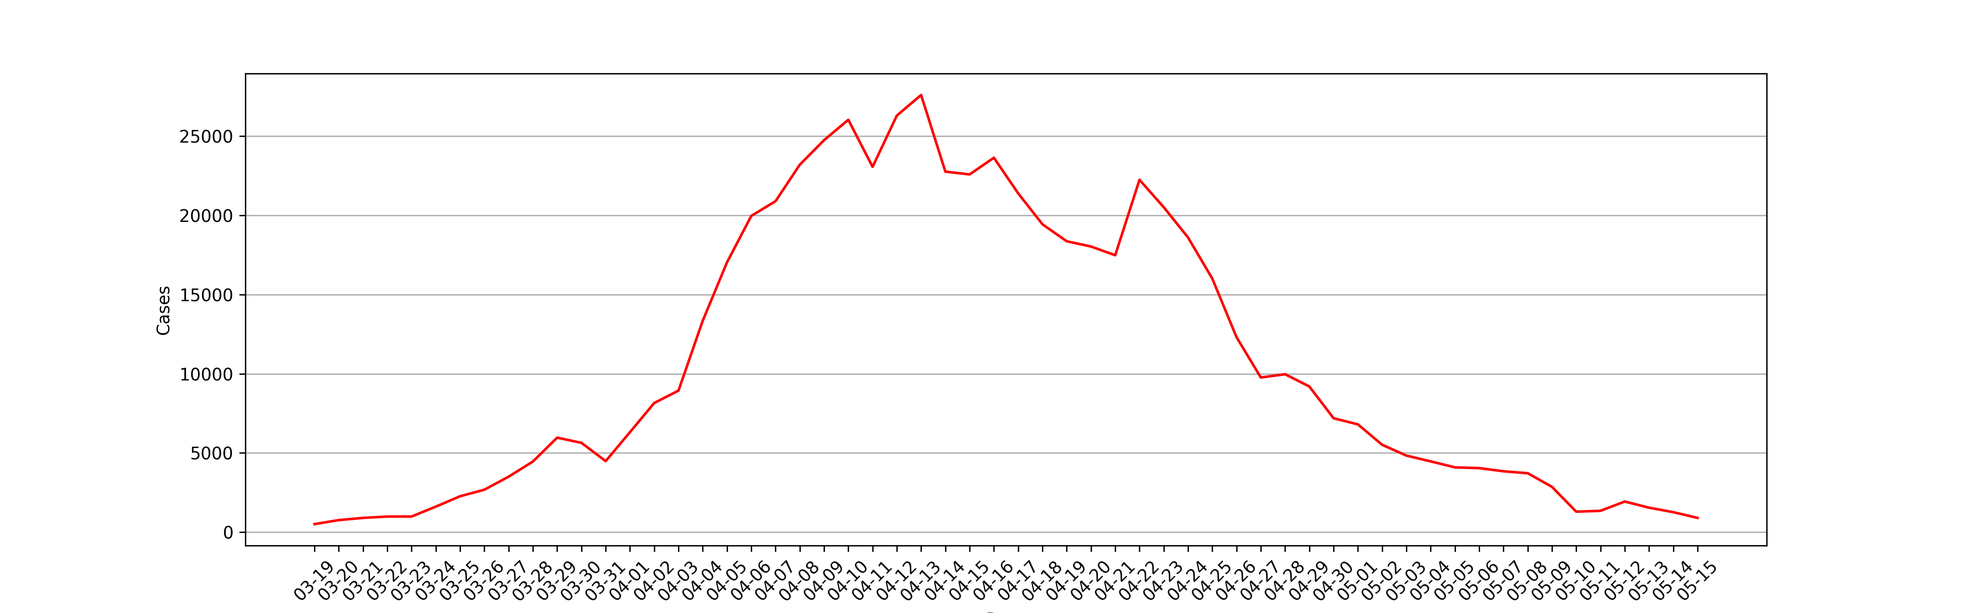
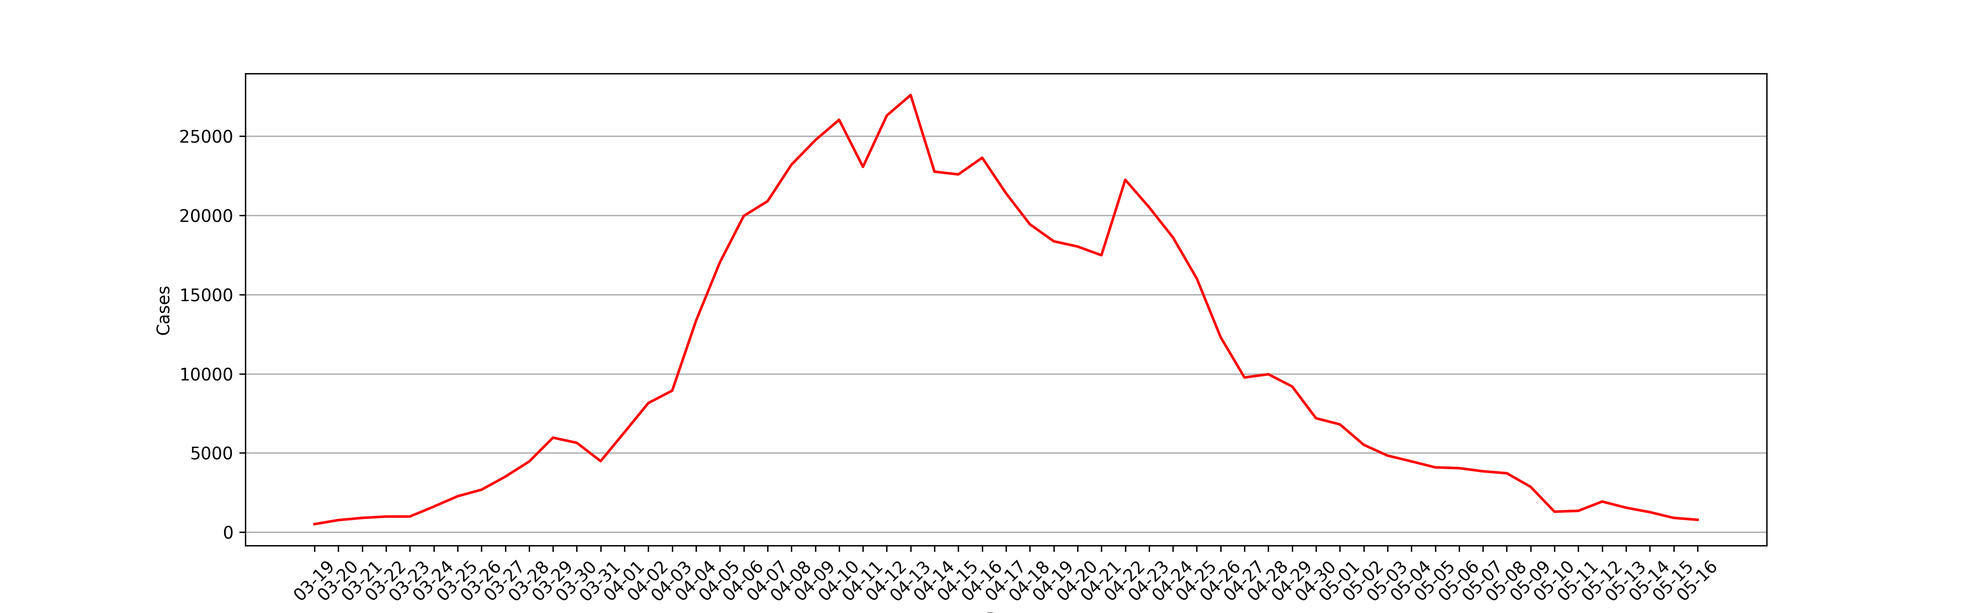
Commit by bot @ 05/17/22 10:15:01

diff --git a/archived_html/f443cdcf97350bfee39cb46b3cc73a14.html b/archived_html/f443cdcf97350bfee39cb46b3cc73a14.html
@@ -1,0 +1,151 @@
+<!DOCTYPE html>
+<html lang="zh-Hans">
+<head>
+    <meta charset="utf-8">
+    <meta http-equiv="Content-Security-Policy" content="upgrade-insecure-requests">
+    <meta name="viewport" content="width=device-width, initial-scale=1, maximum-scale=1, user-scalable=no">
+    <meta http-equiv="X-UA-Compatible" content="IE=Edge,chrome=1">
+    <meta http-equiv="Cache-Control" content="no-siteapp" />
+    <meta name="renderer" content="webkit">
+    <meta name="apple-mobile-web-app-capable" content="yes" />
+    <meta name="apple-mobile-web-app-status-bar-style" content="black" />
+    <title>上海2022年5月16日，新增本土新冠肺炎确诊病例77例 新增本土无症状感染者746例 无新增境外输入性新冠肺炎确诊病例 新增境外输入性无症状感染者2例__上海市卫生健康委员会</title>
+    <meta name="ColumnDescription" content="新闻发布"><!-- * -->
+    <meta name="ColumnKeywords" content="新闻发布"><!-- * -->
+    <!--<meta name="ColumnType" content=""> * -->
+    <meta name="ColumnName" content="新闻发布"><!-- * -->
+    <meta name="ArticleTitle" content="上海2022年5月16日，新增本土新冠肺炎确诊病例77例 新增本土无症状感染者746例 无新增境外输入性新冠肺炎确诊病例 新增境外输入性无症状感染者2例"><!-- * -->
+    <meta name="PubDate" content="2022-05-17"><!-- * -->
+    <meta name="ContentSource" content="上海市卫生健康委员会"><!-- * -->
+    <meta name="Author" content="上海市卫生健康委员会">
+    <meta name="Description" content="" />
+    <meta name="applicable-device" content="pc;mobile">
+    <meta name="location" content="北纬N31°11′51.89″ 东经E121°30′5.42″">
+    <!-- min CSS -->
+    <link rel="stylesheet" href="/assets/css/ETUI/ETUI3.min.css">
+    <!-- Custom CSS -->
+    <link rel="stylesheet" href="/assets/plugin/owl/owl.carousel.css">
+    <link rel="stylesheet" href="/assets/css/style.css">
+    <link rel="stylesheet" href="/assets/css/responsive.css">
+    <link rel="stylesheet" href="/assets/css/ETUI/ETUI3.Utility.css">
+    <!-- icons -->
+    <link rel="shortcut icon" href="/assets/img/ico/favicon.png">
+    <!-- 无障碍工具条 -->
+   <!-- <link rel="stylesheet" href="http://www.shanghai.gov.cn/jhelper_V2.0/jhelper_tool_style.css">
+    <script src="http://www.shanghai.gov.cn/jhelper_V2.0/wsj/jhelper_config.js" charset="gb2312"></script>
+    <noscript>不能读取工具条配置</noscript>
+    <script src="http://www.shanghai.gov.cn/jhelper_V2.0/jhelper_2.0.js" charset="gb2312"></script>
+    <noscript>不能读取工具条</noscript> 
+     -->
+    <script type="text/javascript">
+        function onsubmmit(pageIndex){
+            $("#pageIndex").val(1);
+            $("#searchField").val("0");
+            $("#timeScope").val("0");
+            $("#cmsSearchId").val("0");
+            $("#searchForm").submit();
+        }
+        function onselsubmmit(){
+            $("#pageIndex").val(1);
+            $("#searchForm").submit();
+        }
+        function psubmmit(pageIndex){
+            $("#pageIndex").val(pageIndex);
+            $("#searchForm").submit();
+        }
+        // 栏目
+        function chsubmmit(searchChId){
+            $("#pageIndex").val(1);
+            $("#searchField").val("0");
+            $("#timeScope").val("0");
+            $("#cmsSearchId").val(searchChId);
+            $("#searchForm").submit();
+        }
+    </script> 
+    <!-- 无障碍工具条 -->
+</head>
+<body>
+    <div id="accessNull"></div>
+    <div id="container">
+        <div class="channelinfo hidden"></div>
+        <script src="/assets/js/header.js"></script>
+        <div class="main" id="main">
+            <script src="/assets/js/jiansuo.js"></script>
+            <div class="main-container margin-top-15">
+                <div class="container ">
+                    <div class="relitive">
+                        <ol class="breadcrumb">
+                           <span>您现在所在的位置：</span>
+                            <li><a href="/index.html">首页</a></li>
+                            <li class="active">新闻中心</li>
+                           
+                            <li class="active">新闻发布</li>
+                           
+                        </ol>
+                        <div class="date-se">
+                            <i class="iconfont">&#xe60b;</i> <span id="time"></span>
+                        </div>
+                    </div>
+
+                    <div class="Article">
+                        <h2 id="ivs_title" class="Article-title">上海2022年5月16日，新增本土新冠肺炎确诊病例77例 新增本土无症状感染者746例 无新增境外输入性新冠肺炎确诊病例 新增境外输入性无症状感染者2例</br>
+                         <h2 class="Article-title">
+                            <small id="ivs_date" class="Article-time">( 2022-05-17)</small>
+                        </h2>
+                        <div id="ivs_player" style="text-align:center;"></div>
+                        <div id="ivs_content" class="Article_content">
+                           
+                                 <p style="font-size: medium;white-space: normal;margin-top: 10px;text-indent: 40px"><span style="font-size: 20px;font-family: 仿宋_GB2312">市卫健委今早（17日）通报：2022年5月16日0—24时，新增本土新冠肺炎确诊病例77例和无症状感染者746例，其中46例确诊病例为既往无症状感染者转归，31例确诊病例和746例无症状感染者在隔离管控中发现。新增境外输入性无症状感染者2例，均在闭环管控中发现。</span></p><p style="font-size: medium;white-space: normal;margin-top: 10px;text-indent: 40px"><span style="font-size: 20px;font-family: 仿宋_GB2312">2022</span><span style="font-size: 20px;font-family: 仿宋_GB2312">年5月16日0—24时，新增本土新冠肺炎确诊病例77例，含46例由既往无症状感染者转为确诊病例。新增治愈出院315例。</span></p><p style="font-size: medium;white-space: normal;margin-top: 10px;text-indent: 40px"><strong><span style="font-size: 20px;font-family: 黑体">病例1、病例2</span></strong><span style="font-size: 20px;font-family: 仿宋_GB2312">，居住于浦东新区，</span><strong><span style="font-size: 20px;font-family: 黑体">病例3</span></strong><span style="font-size: 20px;font-family: 仿宋_GB2312">，居住于黄浦区，</span><strong><span style="font-size: 20px;font-family: 黑体">病例4—病例8</span></strong><span style="font-size: 20px;font-family: 仿宋_GB2312">，居住于静安区，</span><strong><span style="font-size: 20px;font-family: 黑体">病例9、病例10</span></strong><span style="font-size: 20px;font-family: 仿宋_GB2312">，居住于虹口区，</span><strong><span style="font-size: 20px;font-family: 黑体">病例11—病例23</span></strong><span style="font-size: 20px;font-family: 仿宋_GB2312">，居住于杨浦区，</span><strong><span style="font-size: 20px;font-family: 黑体">病例24</span></strong><span style="font-size: 20px;font-family: 仿宋_GB2312">，居住于闵行区，</span><strong><span style="font-size: 20px;font-family: 黑体">病例25—病例29</span></strong><span style="font-size: 20px;font-family: 仿宋_GB2312">，居住于宝山区，</span><strong><span style="font-size: 20px;font-family: 黑体">病例30</span></strong><span style="font-size: 20px;font-family: 仿宋_GB2312">，居住于松江区，</span><strong><span style="font-size: 20px;font-family: 黑体">病例31</span></strong><span style="font-size: 20px;font-family: 仿宋_GB2312">，居住于青浦区，均为本市闭环隔离管控人员，其间新冠病毒核酸检测结果异常，经疾控中心复核结果为阳性。经市级专家会诊，综合流行病学史、临床症状、实验室检测和影像学检查结果等，诊断为确诊病例。</span></p><p style="font-size: medium;white-space: normal;margin-top: 10px;text-indent: 40px"><strong><span style="font-size: 20px;font-family: 黑体">病例32</span></strong><span style="font-size: 20px;font-family: 仿宋_GB2312">，居住于浦东新区，</span><strong><span style="font-size: 20px;font-family: 黑体">病例33—病例41</span></strong><span style="font-size: 20px;font-family: 仿宋_GB2312">，居住于黄浦区，</span><strong><span style="font-size: 20px;font-family: 黑体">病例42—病例50</span></strong><span style="font-size: 20px;font-family: 仿宋_GB2312">，居住于静安区，</span><strong><span style="font-size: 20px;font-family: 黑体">病例51、病例52</span></strong><span style="font-size: 20px;font-family: 仿宋_GB2312">，居住于普陀区，</span><strong><span style="font-size: 20px;font-family: 黑体">病例53—病例56</span></strong><span style="font-size: 20px;font-family: 仿宋_GB2312">，居住于杨浦区，</span><strong><span style="font-size: 20px;font-family: 黑体">病例57—病例64</span></strong><span style="font-size: 20px;font-family: 仿宋_GB2312">，居住于闵行区，</span><strong><span style="font-size: 20px;font-family: 黑体">病例65、病例66</span></strong><span style="font-size: 20px;font-family: 仿宋_GB2312">，居住于宝山区，</span><strong><span style="font-size: 20px;font-family: 黑体">病例67—病例75</span></strong><span style="font-size: 20px;font-family: 仿宋_GB2312">，居住于嘉定区，</span><strong><span style="font-size: 20px;font-family: 黑体">病例76</span></strong><span style="font-size: 20px;font-family: 仿宋_GB2312">，居住于金山区，</span><strong><span style="font-size: 20px;font-family: 黑体">病例77</span></strong><span style="font-size: 20px;font-family: 仿宋_GB2312">，居住于松江区，为此前报告的本土无症状感染者。经市级专家会诊，综合流行病学史、临床症状、实验室检测和影像学检查结果等，诊断为确诊病例。</span></p><p style="font-size: medium;white-space: normal;margin-top: 10px;text-indent: 40px"><span style="font-size: 20px;font-family: 仿宋_GB2312">2022</span><span style="font-size: 20px;font-family: 仿宋_GB2312">年5月16日0—24时，新增本土死亡1例。患者为 92岁女性，合并有冠心病、心功能不全、血管性痴呆、肾功能不全等基础疾病，入院后因原发疾病加重并发心源性休克，经抢救无效死亡。死亡直接原因为基础疾病。</span></p><p style="font-size: medium;white-space: normal;margin-top: 10px;text-indent: 40px"><span style="font-size: 20px;font-family: 仿宋_GB2312">2022</span><span style="font-size: 20px;font-family: 仿宋_GB2312">年5月16日0—24时，新增本土无症状感染者746例。</span></p><p style="font-size: medium;white-space: normal;text-indent: 40px"><strong><span style="font-size: 20px;font-family: 黑体">无症状感染者1—无症状感染者86</span></strong><span style="font-size: 20px;font-family: 仿宋_GB2312">，居住于浦东新区，</span><strong><span style="font-size: 20px;font-family: 黑体">无症状感染者87—无症状感染者165</span></strong><span style="font-size: 20px;font-family: 仿宋_GB2312">，居住于黄浦区，</span><strong><span style="font-size: 20px;font-family: 黑体">无症状感染者166—无症状感染者217</span></strong><span style="font-size: 20px;font-family: 仿宋_GB2312">，居住于徐汇区，</span><strong><span style="font-size: 20px;font-family: 黑体">无症状感染者218—无症状感染者241</span></strong><span style="font-size: 20px;font-family: 仿宋_GB2312">，居住于长宁区，</span><strong><span style="font-size: 20px;font-family: 黑体">无症状感染者242—无症状感染者289，</span></strong><span style="font-size: 20px;font-family: 仿宋_GB2312">居住于静安区，</span><strong><span style="font-size: 20px;font-family: 黑体">无症状感染者290—无症状感染者297</span></strong><span style="font-size: 20px;font-family: 仿宋_GB2312">，居住于普陀区，</span><strong><span style="font-size: 20px;font-family: 黑体">无症状感染者298—无症状感染者344</span></strong><span style="font-size: 20px;font-family: 仿宋_GB2312">，居住于虹口区，</span><strong><span style="font-size: 20px;font-family: 黑体">无症状感染者345—无症状感染者584</span></strong><span style="font-size: 20px;font-family: 仿宋_GB2312">，居住于杨浦区，</span><strong><span style="font-size: 20px;font-family: 黑体">无症状感染者585—无症状感染者623</span></strong><span style="font-size: 20px;font-family: 仿宋_GB2312">，居住于闵行区，</span><strong><span style="font-size: 20px;font-family: 黑体">无症状感染者624—无症状感染者694</span></strong><span style="font-size: 20px;font-family: 仿宋_GB2312">，居住于宝山区，</span><strong><span style="font-size: 20px;font-family: 黑体">无症状感染者695—无症状感染者712</span></strong><span style="font-size: 20px;font-family: 仿宋_GB2312">，居住于嘉定区，</span><strong><span style="font-size: 20px;font-family: 黑体">无症状感染者713—无症状感染者717</span></strong><span style="font-size: 20px;font-family: 仿宋_GB2312">，居住于金山区，</span><strong><span style="font-size: 20px;font-family: 黑体">无症状感染者718—无症状感染者726</span></strong><span style="font-size: 20px;font-family: 仿宋_GB2312">，居住于松江区，</span><strong><span style="font-size: 20px;font-family: 黑体">无症状感染者727—无症状感染者745</span></strong><span style="font-size: 20px;font-family: 仿宋_GB2312">，居住于青浦区，</span><strong><span style="font-size: 20px;font-family: 黑体">无症状感染者746</span></strong><span style="font-size: 20px;font-family: 仿宋_GB2312">，居住于奉贤区，</span><span style="font-size: 20px;font-family: 仿宋_GB2312">均为本市闭环隔离管控人员，其间新冠病毒核酸检测结果</span><span style="font-size: 20px;font-family: 仿宋_GB2312">异常，经疾控中心复核结果为阳性，诊断为无症状感染者。</span></p><p style="font-size: medium;white-space: normal;text-indent: 40px"><span style="font-size: 20px;font-family: 仿宋_GB2312">2022</span><span style="font-size: 20px;font-family: 仿宋_GB2312">年5月16日0—24时，无</span><span style="font-size: 20px;font-family: 仿宋_GB2312">新增境外输入性新冠肺炎确诊病例</span><span style="font-size: 20px;font-family: 仿宋_GB2312">。</span></p><p style="font-size: medium;white-space: normal;text-indent: 40px"><span style="font-size: 20px;font-family: 仿宋_GB2312">2022</span><span style="font-size: 20px;font-family: 仿宋_GB2312">年5月16日0—24时，新增境外输入性无症状感染者2例。</span></p><p style="font-size: medium;white-space: normal;text-indent: 40px"><strong><span style="font-size: 20px;font-family: 黑体">无症状感染者1</span></strong><span style="font-size: 20px;font-family: 仿宋_GB2312">为中国籍，在美国留学，自美国出发，于2022年5月8日抵达上海浦东国际机场，入关后即被集中隔离观察，其间例行核酸检测异常。经排查，区疾控中心新冠病毒核酸检测结果为阳性。综合流行病学史、临床症状、实验室检测和影像学检查结果等，诊断为无症状感染者。</span></p><p style="font-size: medium;white-space: normal;text-indent: 40px"><strong><span style="font-size: 20px;font-family: 黑体">无症状感染者2</span></strong><span style="font-size: 20px;font-family: 仿宋_GB2312">为中国籍，在加拿大留学，自加拿大出发，于2022年5月14日抵达上海浦东国际机场，入关后即被集中隔离观察，其间例行核酸检测异常。经排查，区疾控中心新冠病毒核酸检测结果为阳性。综合流行病学史、临床症状、实验室检测和影像学检查结果等，诊断为无症状感染者。</span></p><p style="font-size: medium;white-space: normal;text-indent: 40px"><span style="font-size: 20px;font-family: 仿宋_GB2312">2</span><span style="font-size: 20px;font-family: 仿宋_GB2312">例境外输入性无症状感染者已转至定点医疗机构医学观察，已追踪同航班密切接触者17人，均已落实集中隔离观察。</span></p><p style="font-size: medium;white-space: normal;text-indent: 40px"><span style="font-size: 20px;font-family: 仿宋_GB2312">2022</span><span style="font-size: 20px;font-family: 仿宋_GB2312">年5月16日0—24时，解除医学观察无症状感染者2874例，其中本土无症状感染者2872例，境外输入性无症状感染者2例。</span></p><p style="font-size: medium;white-space: normal;margin-top: 10px;text-indent: 40px;vertical-align: baseline"><span style="font-size: 20px;font-family: 仿宋_GB2312">2022</span><span style="font-size: 20px;font-family: 仿宋_GB2312">年2月26日0时至2022年5月16日24时，累计本土确诊57260例，治愈出院52837例，在院治疗3847例（其中重型259例，危重型64例），死亡576。现有待排查的疑似病例0例。</span></p><p style="font-size: medium;white-space: normal;margin-top: 10px;text-indent: 40px;vertical-align: baseline"><span style="font-size: 20px;font-family: 仿宋_GB2312">截至2022年5月16日24时，累计境外输入性确诊病例4599例，出院4590例，在院治疗9例。现有待排查的疑似病例0例。</span></p><p style="font-size: medium;white-space: normal;margin-top: 10px;text-indent: 40px;vertical-align: baseline"><span style="font-size: 20px;font-family: 仿宋_GB2312"><br/></span></p><table align="center" cellspacing="0" cellpadding="0" width="544"><tbody><tr style="height: 24px" class="firstRow"><td width="379" colspan="2" style="border-width: 1px; border-color: windowtext; padding: 0px 7px; border-style: solid;" height="24"><p style="text-align: center;vertical-align: baseline"><strong><span style="font-size: 19px;font-family: 仿宋_GB2312">区域</span></strong></p></td><td width="165" style="border-width: 1px; border-top-color: windowtext; border-right-color: windowtext; border-bottom-color: windowtext; border-style: solid; border-left-color: initial; padding: 0px 7px;" height="24"><p style="text-align: center;vertical-align: baseline"><strong><span style="font-size: 19px;font-family: 仿宋_GB2312">在院治疗确诊病例</span></strong></p></td></tr><tr style="height: 42px"><td width="213" rowspan="8" style="border-width: 1px; border-right-color: windowtext; border-bottom-color: windowtext; border-left-color: windowtext; border-style: solid; border-top-color: initial; padding: 0px 7px;" height="42"><p style="text-align: center;vertical-align: baseline"><span style="font-size: 19px;font-family: 仿宋_GB2312">境外输入人员</span></p><p style="text-align: center;vertical-align: baseline"><span style="font-size: 19px;font-family: 仿宋_GB2312">（按输入地分）</span></p></td><td width="165" valign="top" style="border-width: 1px; border-style: solid; border-top-color: initial; border-left-color: initial; border-bottom-color: windowtext; border-right-color: windowtext; padding: 0px 7px;" height="42"><p style="text-align: center;vertical-align: middle"><span style="font-size: 19px;font-family: 仿宋_GB2312">美国</span></p></td><td width="165" valign="top" style="border-width: 1px; border-style: solid; border-top-color: initial; border-left-color: initial; border-bottom-color: windowtext; border-right-color: windowtext; padding: 0px 7px;" height="42"><p style="text-align: center;vertical-align: middle"><span style="font-size: 19px;font-family: 仿宋_GB2312">2</span></p></td></tr><tr style="height: 42px"><td width="165" valign="top" style="border-width: 1px; border-style: solid; border-top-color: initial; border-left-color: initial; border-bottom-color: windowtext; border-right-color: windowtext; padding: 0px 7px;" height="42"><p style="text-align: center;vertical-align: middle"><span style="font-size: 19px;font-family: 仿宋_GB2312">加拿大</span></p></td><td width="165" valign="top" style="border-width: 1px; border-style: solid; border-top-color: initial; border-left-color: initial; border-bottom-color: windowtext; border-right-color: windowtext; padding: 0px 7px;" height="42"><p style="text-align: center;vertical-align: middle"><span style="font-size: 19px;font-family: 仿宋_GB2312">1</span></p></td></tr><tr style="height: 42px"><td width="165" valign="top" style="border-width: 1px; border-style: solid; border-top-color: initial; border-left-color: initial; border-bottom-color: windowtext; border-right-color: windowtext; padding: 0px 7px;" height="42"><p style="text-align: center;vertical-align: middle"><span style="font-size: 19px;font-family: 仿宋_GB2312">英国</span></p></td><td width="165" valign="top" style="border-width: 1px; border-style: solid; border-top-color: initial; border-left-color: initial; border-bottom-color: windowtext; border-right-color: windowtext; padding: 0px 7px;" height="42"><p style="text-align: center;vertical-align: middle"><span style="font-size: 19px;font-family: 仿宋_GB2312">1</span></p></td></tr><tr style="height: 33px"><td width="165" valign="top" style="border-width: 1px; border-style: solid; border-top-color: initial; border-left-color: initial; border-bottom-color: windowtext; border-right-color: windowtext; padding: 0px 7px;" height="33"><p style="text-align: center;vertical-align: middle"><span style="font-size: 19px;font-family: 仿宋_GB2312">科特迪瓦</span></p></td><td width="165" valign="top" style="border-width: 1px; border-style: solid; border-top-color: initial; border-left-color: initial; border-bottom-color: windowtext; border-right-color: windowtext; padding: 0px 7px;" height="33"><p style="text-align: center;vertical-align: middle"><span style="font-size: 19px;font-family: 仿宋_GB2312">1</span></p></td></tr><tr style="height: 33px"><td width="165" valign="top" style="border-width: 1px; border-style: solid; border-top-color: initial; border-left-color: initial; border-bottom-color: windowtext; border-right-color: windowtext; padding: 0px 7px;" height="33"><p style="text-align: center;vertical-align: middle"><span style="font-size: 19px;font-family: 仿宋_GB2312">日本</span></p></td><td width="165" valign="top" style="border-width: 1px; border-style: solid; border-top-color: initial; border-left-color: initial; border-bottom-color: windowtext; border-right-color: windowtext; padding: 0px 7px;" height="33"><p style="text-align: center;vertical-align: middle"><span style="font-size: 19px;font-family: 仿宋_GB2312">1</span></p></td></tr><tr style="height: 33px"><td width="165" valign="top" style="border-width: 1px; border-style: solid; border-top-color: initial; border-left-color: initial; border-bottom-color: windowtext; border-right-color: windowtext; padding: 0px 7px;" height="33"><p style="text-align: center;vertical-align: middle"><span style="font-size: 19px;font-family: 仿宋_GB2312">法国</span></p></td><td width="165" valign="top" style="border-width: 1px; border-style: solid; border-top-color: initial; border-left-color: initial; border-bottom-color: windowtext; border-right-color: windowtext; padding: 0px 7px;" height="33"><p style="text-align: center;vertical-align: middle"><span style="font-size: 19px;font-family: 仿宋_GB2312">1</span></p></td></tr><tr style="height: 33px"><td width="165" valign="top" style="border-width: 1px; border-style: solid; border-top-color: initial; border-left-color: initial; border-bottom-color: windowtext; border-right-color: windowtext; padding: 0px 7px;" height="33"><p style="text-align: center;vertical-align: middle"><span style="font-size: 19px;font-family: 仿宋_GB2312">德国</span></p></td><td width="165" valign="top" style="border-width: 1px; border-style: solid; border-top-color: initial; border-left-color: initial; border-bottom-color: windowtext; border-right-color: windowtext; padding: 0px 7px;" height="33"><p style="text-align: center;vertical-align: middle"><span style="font-size: 19px;font-family: 仿宋_GB2312">1</span></p></td></tr><tr style="height: 33px"><td width="165" valign="top" style="border-width: 1px; border-style: solid; border-top-color: initial; border-left-color: initial; border-bottom-color: windowtext; border-right-color: windowtext; padding: 0px 7px;" height="33"><p style="text-align: center;vertical-align: middle"><span style="font-size: 19px;font-family: 仿宋_GB2312">台湾地区</span></p></td><td width="165" valign="top" style="border-width: 1px; border-style: solid; border-top-color: initial; border-left-color: initial; border-bottom-color: windowtext; border-right-color: windowtext; padding: 0px 7px;" height="33"><p style="text-align: center;vertical-align: middle"><span style="font-size: 19px;font-family: 仿宋_GB2312">1</span></p></td></tr><tr style="height: 33px"><td width="213" rowspan="16" style="border-width: 1px; border-right-color: windowtext; border-bottom-color: windowtext; border-left-color: windowtext; border-style: solid; border-top-color: initial; padding: 0px 7px;" height="33"><p style="text-indent: 19px;vertical-align: baseline"><span style="font-size: 19px;font-family: 仿宋_GB2312">本市居住或工作地</span></p></td><td width="165" style="border-width: 1px; border-style: solid; border-top-color: initial; border-left-color: initial; border-bottom-color: windowtext; border-right-color: windowtext; padding: 0px 7px;" height="33"><p style="text-align: center;vertical-align: middle"><span style="font-size: 19px;font-family: 仿宋_GB2312">浦东</span></p></td><td width="165" style="border-width: 1px; border-style: solid; border-top-color: initial; border-left-color: initial; border-bottom-color: windowtext; border-right-color: windowtext; padding: 0px 7px;" height="33"><p style="text-align: center"><span style="font-size: 19px;font-family: 仿宋_GB2312">317</span></p></td></tr><tr style="height: 33px"><td width="165" style="border-width: 1px; border-style: solid; border-top-color: initial; border-left-color: initial; border-bottom-color: windowtext; border-right-color: windowtext; padding: 0px 7px;" height="33"><p style="text-align: center;vertical-align: middle"><span style="font-size: 19px;font-family: 仿宋_GB2312">黄浦</span></p></td><td width="165" style="border-width: 1px; border-style: solid; border-top-color: initial; border-left-color: initial; border-bottom-color: windowtext; border-right-color: windowtext; padding: 0px 7px;" height="33"><p style="text-align: center"><span style="font-size: 19px;font-family: 仿宋_GB2312">595</span></p></td></tr><tr style="height: 33px"><td width="165" style="border-width: 1px; border-style: solid; border-top-color: initial; border-left-color: initial; border-bottom-color: windowtext; border-right-color: windowtext; padding: 0px 7px;" height="33"><p style="text-align: center;vertical-align: middle"><span style="font-size: 19px;font-family: 仿宋_GB2312">徐汇</span></p></td><td width="165" style="border-width: 1px; border-style: solid; border-top-color: initial; border-left-color: initial; border-bottom-color: windowtext; border-right-color: windowtext; padding: 0px 7px;" height="33"><p style="text-align: center"><span style="font-size: 19px;font-family: 仿宋_GB2312">518</span></p></td></tr><tr style="height: 33px"><td width="165" style="border-width: 1px; border-style: solid; border-top-color: initial; border-left-color: initial; border-bottom-color: windowtext; border-right-color: windowtext; padding: 0px 7px;" height="33"><p style="text-align: center;vertical-align: middle"><span style="font-size: 19px;font-family: 仿宋_GB2312">长宁</span></p></td><td width="165" style="border-width: 1px; border-style: solid; border-top-color: initial; border-left-color: initial; border-bottom-color: windowtext; border-right-color: windowtext; padding: 0px 7px;" height="33"><p style="text-align: center"><span style="font-size: 19px;font-family: 仿宋_GB2312">272</span></p></td></tr><tr style="height: 33px"><td width="165" style="border-width: 1px; border-style: solid; border-top-color: initial; border-left-color: initial; border-bottom-color: windowtext; border-right-color: windowtext; padding: 0px 7px;" height="33"><p style="text-align: center;vertical-align: middle"><span style="font-size: 19px;font-family: 仿宋_GB2312">静安</span></p></td><td width="165" style="border-width: 1px; border-style: solid; border-top-color: initial; border-left-color: initial; border-bottom-color: windowtext; border-right-color: windowtext; padding: 0px 7px;" height="33"><p style="text-align: center"><span style="font-size: 19px;font-family: 仿宋_GB2312">573</span></p></td></tr><tr style="height: 33px"><td width="165" style="border-width: 1px; border-style: solid; border-top-color: initial; border-left-color: initial; border-bottom-color: windowtext; border-right-color: windowtext; padding: 0px 7px;" height="33"><p style="text-align: center;vertical-align: middle"><span style="font-size: 19px;font-family: 仿宋_GB2312">普陀</span></p></td><td width="165" style="border-width: 1px; border-style: solid; border-top-color: initial; border-left-color: initial; border-bottom-color: windowtext; border-right-color: windowtext; padding: 0px 7px;" height="33"><p style="text-align: center"><span style="font-size: 19px;font-family: 仿宋_GB2312">345</span></p></td></tr><tr style="height: 33px"><td width="165" style="border-width: 1px; border-style: solid; border-top-color: initial; border-left-color: initial; border-bottom-color: windowtext; border-right-color: windowtext; padding: 0px 7px;" height="33"><p style="text-align: center;vertical-align: middle"><span style="font-size: 19px;font-family: 仿宋_GB2312">虹口</span></p></td><td width="165" style="border-width: 1px; border-style: solid; border-top-color: initial; border-left-color: initial; border-bottom-color: windowtext; border-right-color: windowtext; padding: 0px 7px;" height="33"><p style="text-align: center"><span style="font-size: 19px;font-family: 仿宋_GB2312">402</span></p></td></tr><tr style="height: 33px"><td width="165" style="border-width: 1px; border-style: solid; border-top-color: initial; border-left-color: initial; border-bottom-color: windowtext; border-right-color: windowtext; padding: 0px 7px;" height="33"><p style="text-align: center;vertical-align: middle"><span style="font-size: 19px;font-family: 仿宋_GB2312">杨浦</span></p></td><td width="165" style="border-width: 1px; border-style: solid; border-top-color: initial; border-left-color: initial; border-bottom-color: windowtext; border-right-color: windowtext; padding: 0px 7px;" height="33"><p style="text-align: center"><span style="font-size: 19px;font-family: 仿宋_GB2312">473</span></p></td></tr><tr style="height: 33px"><td width="165" style="border-width: 1px; border-style: solid; border-top-color: initial; border-left-color: initial; border-bottom-color: windowtext; border-right-color: windowtext; padding: 0px 7px;" height="33"><p style="text-align: center;vertical-align: middle"><span style="font-size: 19px;font-family: 仿宋_GB2312">闵行</span></p></td><td width="165" style="border-width: 1px; border-style: solid; border-top-color: initial; border-left-color: initial; border-bottom-color: windowtext; border-right-color: windowtext; padding: 0px 7px;" height="33"><p style="text-align: center"><span style="font-size: 19px;font-family: 仿宋_GB2312">94</span></p></td></tr><tr style="height: 33px"><td width="165" style="border-width: 1px; border-style: solid; border-top-color: initial; border-left-color: initial; border-bottom-color: windowtext; border-right-color: windowtext; padding: 0px 7px;" height="33"><p style="text-align: center;vertical-align: middle"><span style="font-size: 19px;font-family: 仿宋_GB2312">宝山</span></p></td><td width="165" style="border-width: 1px; border-style: solid; border-top-color: initial; border-left-color: initial; border-bottom-color: windowtext; border-right-color: windowtext; padding: 0px 7px;" height="33"><p style="text-align: center"><span style="font-size: 19px;font-family: 仿宋_GB2312">73</span></p></td></tr><tr style="height: 33px"><td width="165" style="border-width: 1px; border-style: solid; border-top-color: initial; border-left-color: initial; border-bottom-color: windowtext; border-right-color: windowtext; padding: 0px 7px;" height="33"><p style="text-align: center;vertical-align: middle"><span style="font-size: 19px;font-family: 仿宋_GB2312">嘉定</span></p></td><td width="165" style="border-width: 1px; border-style: solid; border-top-color: initial; border-left-color: initial; border-bottom-color: windowtext; border-right-color: windowtext; padding: 0px 7px;" height="33"><p style="text-align: center"><span style="font-size: 19px;font-family: 仿宋_GB2312">51</span></p></td></tr><tr style="height: 33px"><td width="165" style="border-width: 1px; border-style: solid; border-top-color: initial; border-left-color: initial; border-bottom-color: windowtext; border-right-color: windowtext; padding: 0px 7px;" height="33"><p style="text-align: center;vertical-align: middle"><span style="font-size: 19px;font-family: 仿宋_GB2312">金山</span></p></td><td width="165" style="border-width: 1px; border-style: solid; border-top-color: initial; border-left-color: initial; border-bottom-color: windowtext; border-right-color: windowtext; padding: 0px 7px;" height="33"><p style="text-align: center"><span style="font-size: 19px;font-family: 仿宋_GB2312">3</span></p></td></tr><tr style="height: 33px"><td width="165" style="border-width: 1px; border-style: solid; border-top-color: initial; border-left-color: initial; border-bottom-color: windowtext; border-right-color: windowtext; padding: 0px 7px;" height="33"><p style="text-align: center;vertical-align: middle"><span style="font-size: 19px;font-family: 仿宋_GB2312">松江</span></p></td><td width="165" style="border-width: 1px; border-style: solid; border-top-color: initial; border-left-color: initial; border-bottom-color: windowtext; border-right-color: windowtext; padding: 0px 7px;" height="33"><p style="text-align: center"><span style="font-size: 19px;font-family: 仿宋_GB2312">7</span></p></td></tr><tr style="height: 33px"><td width="165" style="border-width: 1px; border-style: solid; border-top-color: initial; border-left-color: initial; border-bottom-color: windowtext; border-right-color: windowtext; padding: 0px 7px;" height="33"><p style="text-align: center;vertical-align: middle"><span style="font-size: 19px;font-family: 仿宋_GB2312">青浦</span></p></td><td width="165" style="border-width: 1px; border-style: solid; border-top-color: initial; border-left-color: initial; border-bottom-color: windowtext; border-right-color: windowtext; padding: 0px 7px;" height="33"><p style="text-align: center"><span style="font-size: 19px;font-family: 仿宋_GB2312">4</span></p></td></tr><tr style="height: 33px"><td width="165" style="border-width: 1px; border-style: solid; border-top-color: initial; border-left-color: initial; border-bottom-color: windowtext; border-right-color: windowtext; padding: 0px 7px;" height="33"><p style="text-align: center;vertical-align: middle"><span style="font-size: 19px;font-family: 仿宋_GB2312">奉贤</span></p></td><td width="165" style="border-width: 1px; border-style: solid; border-top-color: initial; border-left-color: initial; border-bottom-color: windowtext; border-right-color: windowtext; padding: 0px 7px;" height="33"><p style="text-align: center"><span style="font-size: 19px;font-family: 仿宋_GB2312">67</span></p></td></tr><tr style="height: 33px"><td width="165" style="border-width: 1px; border-style: solid; border-top-color: initial; border-left-color: initial; border-bottom-color: windowtext; border-right-color: windowtext; padding: 0px 7px;" height="33"><p style="text-align: center;vertical-align: middle"><span style="font-size: 19px;font-family: 仿宋_GB2312">崇明</span></p></td><td width="165" style="border-width: 1px; border-style: solid; border-top-color: initial; border-left-color: initial; border-bottom-color: windowtext; border-right-color: windowtext; padding: 0px 7px;" height="33"><p style="text-align: center"><span style="font-size: 19px;font-family: 仿宋_GB2312">53</span></p></td></tr><tr style="height: 33px"><td width="379" colspan="2" style="border-width: 1px; border-right-color: windowtext; border-bottom-color: windowtext; border-left-color: windowtext; border-style: solid; border-top-color: initial; padding: 0px 7px;" height="33"><p style="text-align: center;vertical-align: baseline"><span style="font-size: 19px;font-family: 仿宋_GB2312">合计</span></p></td><td width="165" style="border-width: 1px; border-style: solid; border-top-color: initial; border-left-color: initial; border-bottom-color: windowtext; border-right-color: windowtext; padding: 0px 7px;" height="33"><p style="text-align: center;vertical-align: baseline"><span style="font-size: 19px;font-family: 仿宋_GB2312">3856</span></p></td></tr></tbody></table><p style="font-size: medium;white-space: normal;margin-top: 10px;text-indent: 43px;vertical-align: baseline"><span style="font-size: 21px;font-family: Calibri, sans-serif">&nbsp;</span></p><p style="font-size: medium;white-space: normal;margin-top: 10px;text-indent: 43px;vertical-align: baseline"><span style="font-size: 21px;font-family: Calibri, sans-serif">&nbsp;</span></p><p><br/></p>
+                        </div>
+                        </div>
+                    </div>
+                </div>
+            </div>
+        </div>
+        <script src="/assets/js/footer.js"></script>
+        </div>
+    <!--Main JS-->
+    <script src="/assets/js/ETUI/jquery.min.1.12.4.js"></script>
+    <!--[if lt IE 9]>
+    <script src="/assets/js/ETUI/html5shiv.min.js"></script>
+    <script src="/assets/js/ETUI/respond.min.js"></script>
+    <![endif]-->
+    <script src="/assets/js/ETUI/ETUI3.min.js"></script>
+    <script src="/assets/plugin/owl/owl.carousel.min.js"></script>
+    <!--Custom JS-->
+    <script src="/assets/js/main.js"></script>
+    <script src="/assets/js/language.js"></script>
+    <!-- <script src="/assets/js/Time.js"></script> -->
+    <!--
+  <script src="/assets/js/jhelper_config.js" charset="gb2312"></script>
+<script type="text/javascript" src="https://jhelper.shanghai.gov.cn/publicJS/3100000010.js"></script>
+-->
+<script src="https://wsjkw.sh.gov.cn/wza/jhelper_config.js" charset="gb2312"></script>
+    <script type="text/javascript" src="http://jhelper.shanghai.gov.cn/publicJS/3100000010.js"></script>
+   <!-- <script type="text/javascript" src="http://voice.ewdcloud.com.cn:9292/js/ew_msc.js"></script>-->
+    <script>
+        jQuery(document).ready(function () {
+            Main.init();
+        });
+        jQuery(document).ready(function () {
+	        getToolbarMod();
+        });
+    </script>
+    <script>
+        function currentTime(){
+            var d = new Date(),str = '';
+            str += d.getFullYear()+'年';
+            str  += d.getMonth() + 1+'月';
+            str  += d.getDate()+'日';
+            var a = new Array("日", "一", "二", "三", "四", "五", "六");
+            var week = new Date().getDay();
+            var tody = "星期"+ a[week];
+            str +=' ';
+            str  += tody ;
+            return str;
+
+        }
+        setInterval(function(){$('#time').html(currentTime)},1000);
+    </script>
+</body>
+</html>

diff --git a/README.md b/README.md
@@ -23,6 +23,7 @@ This project will be updated every 15min between 8am and 10pm GMT+8 before Shang
 
 | Date/Details | New Cases(*)  | Deaths | Confirmed Cases | Asymptomatic Cases | A2C Cases(*) |
 | ---- | ---------- | ---------- | ---------------- | ----------------- | ---------------------------- |
+| 2022-05-16 | 777 | 1 | 77 | 746 | 46 |
 | 2022-05-15 | 896 | 4 | 69 | 869 | 42 |
 | 2022-05-14 | 1258 | 3 | 166 | 1203 | 111 |
 | 2022-05-13 | 1541 | 1 | 194 | 1487 | 140 |
@@ -91,6 +92,7 @@ This project will be updated every 15min between 8am and 10pm GMT+8 before Shang
 
 | Date | Total Cases  | Total Deaths | Case‑Fatality-Rate |
 | ---- | ---------- | ---------- | ---------- |
+| 2022-05-16 | 619068 | 576 | 0.0930% |
 | 2022-05-15 | 618291 | 575 | 0.0930% |
 | 2022-05-14 | 617395 | 571 | 0.0925% |
 | 2022-05-13 | 616137 | 568 | 0.0922% |
